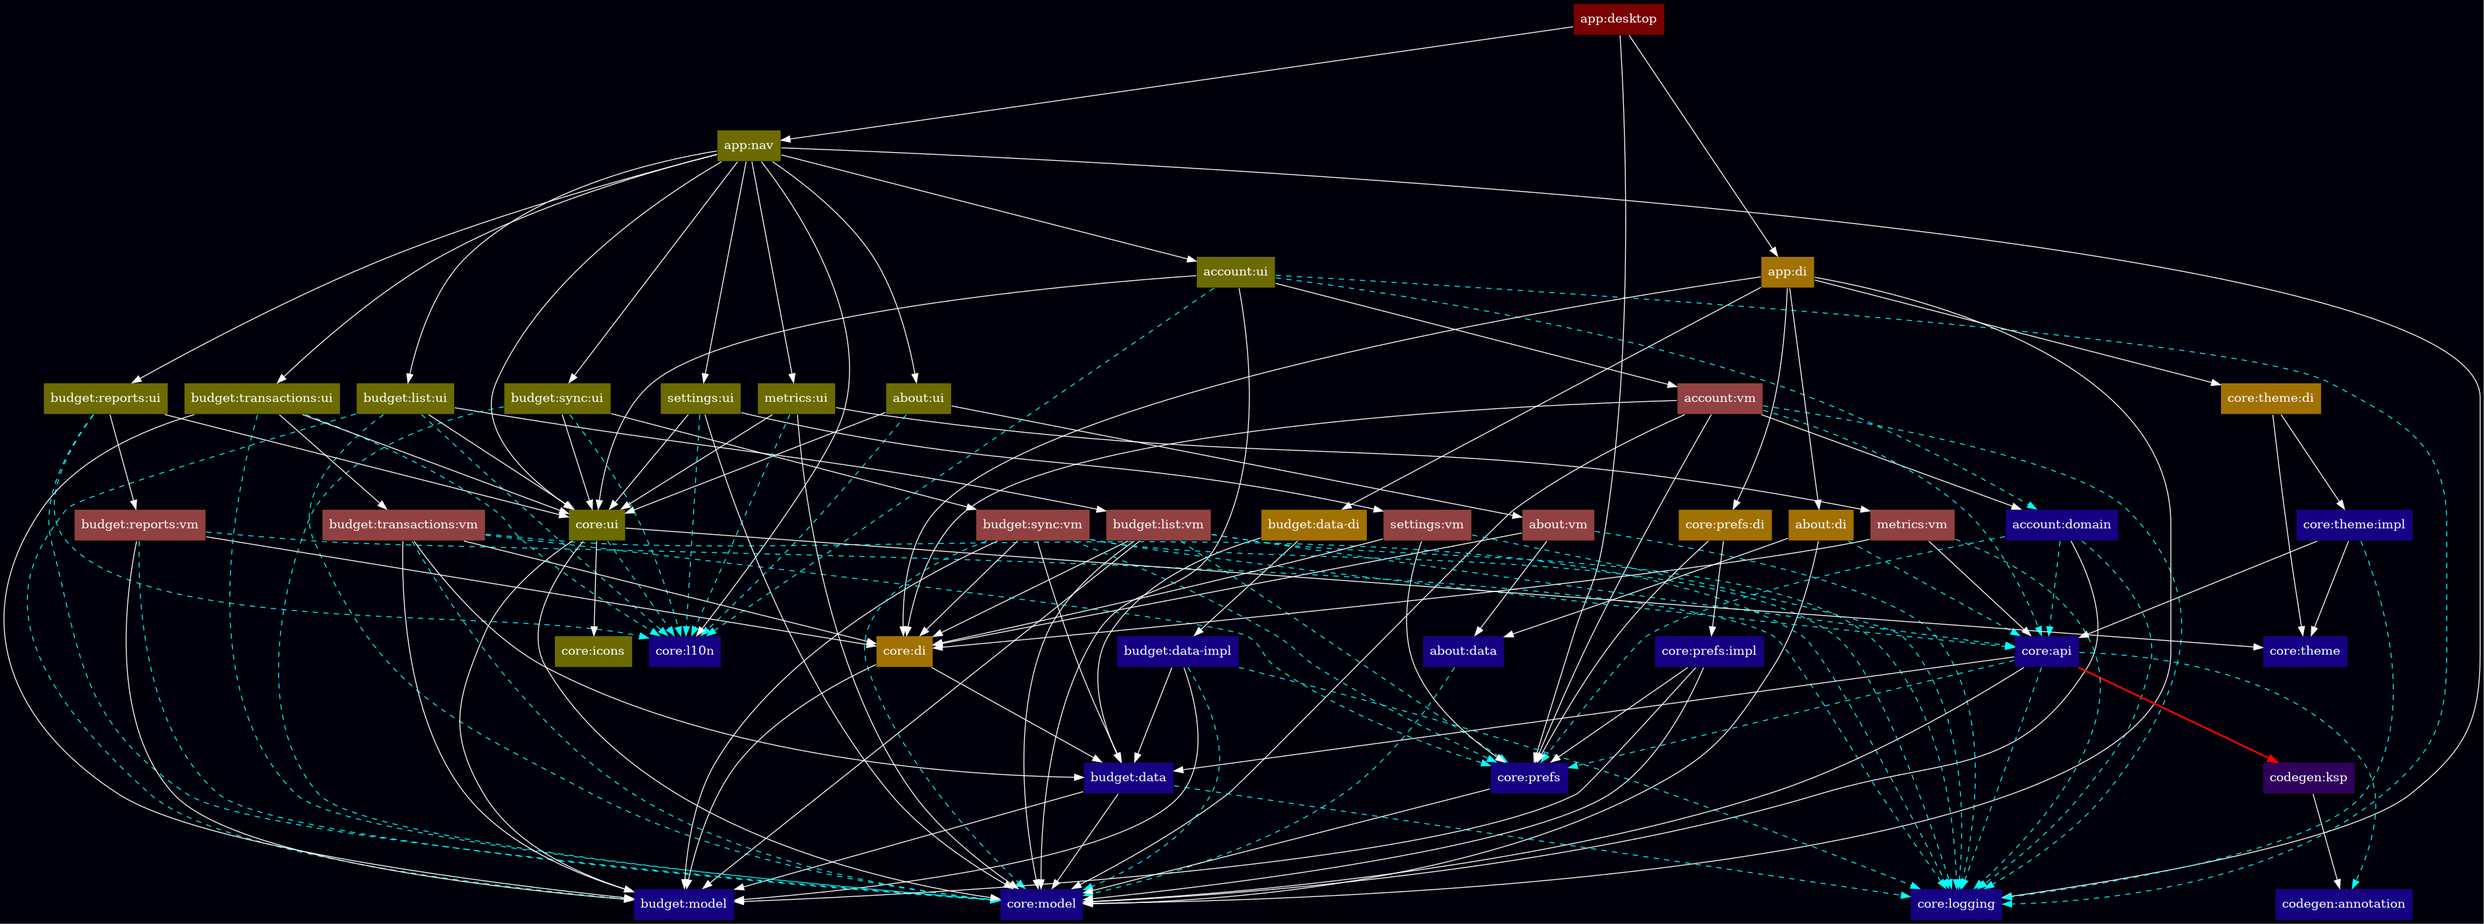
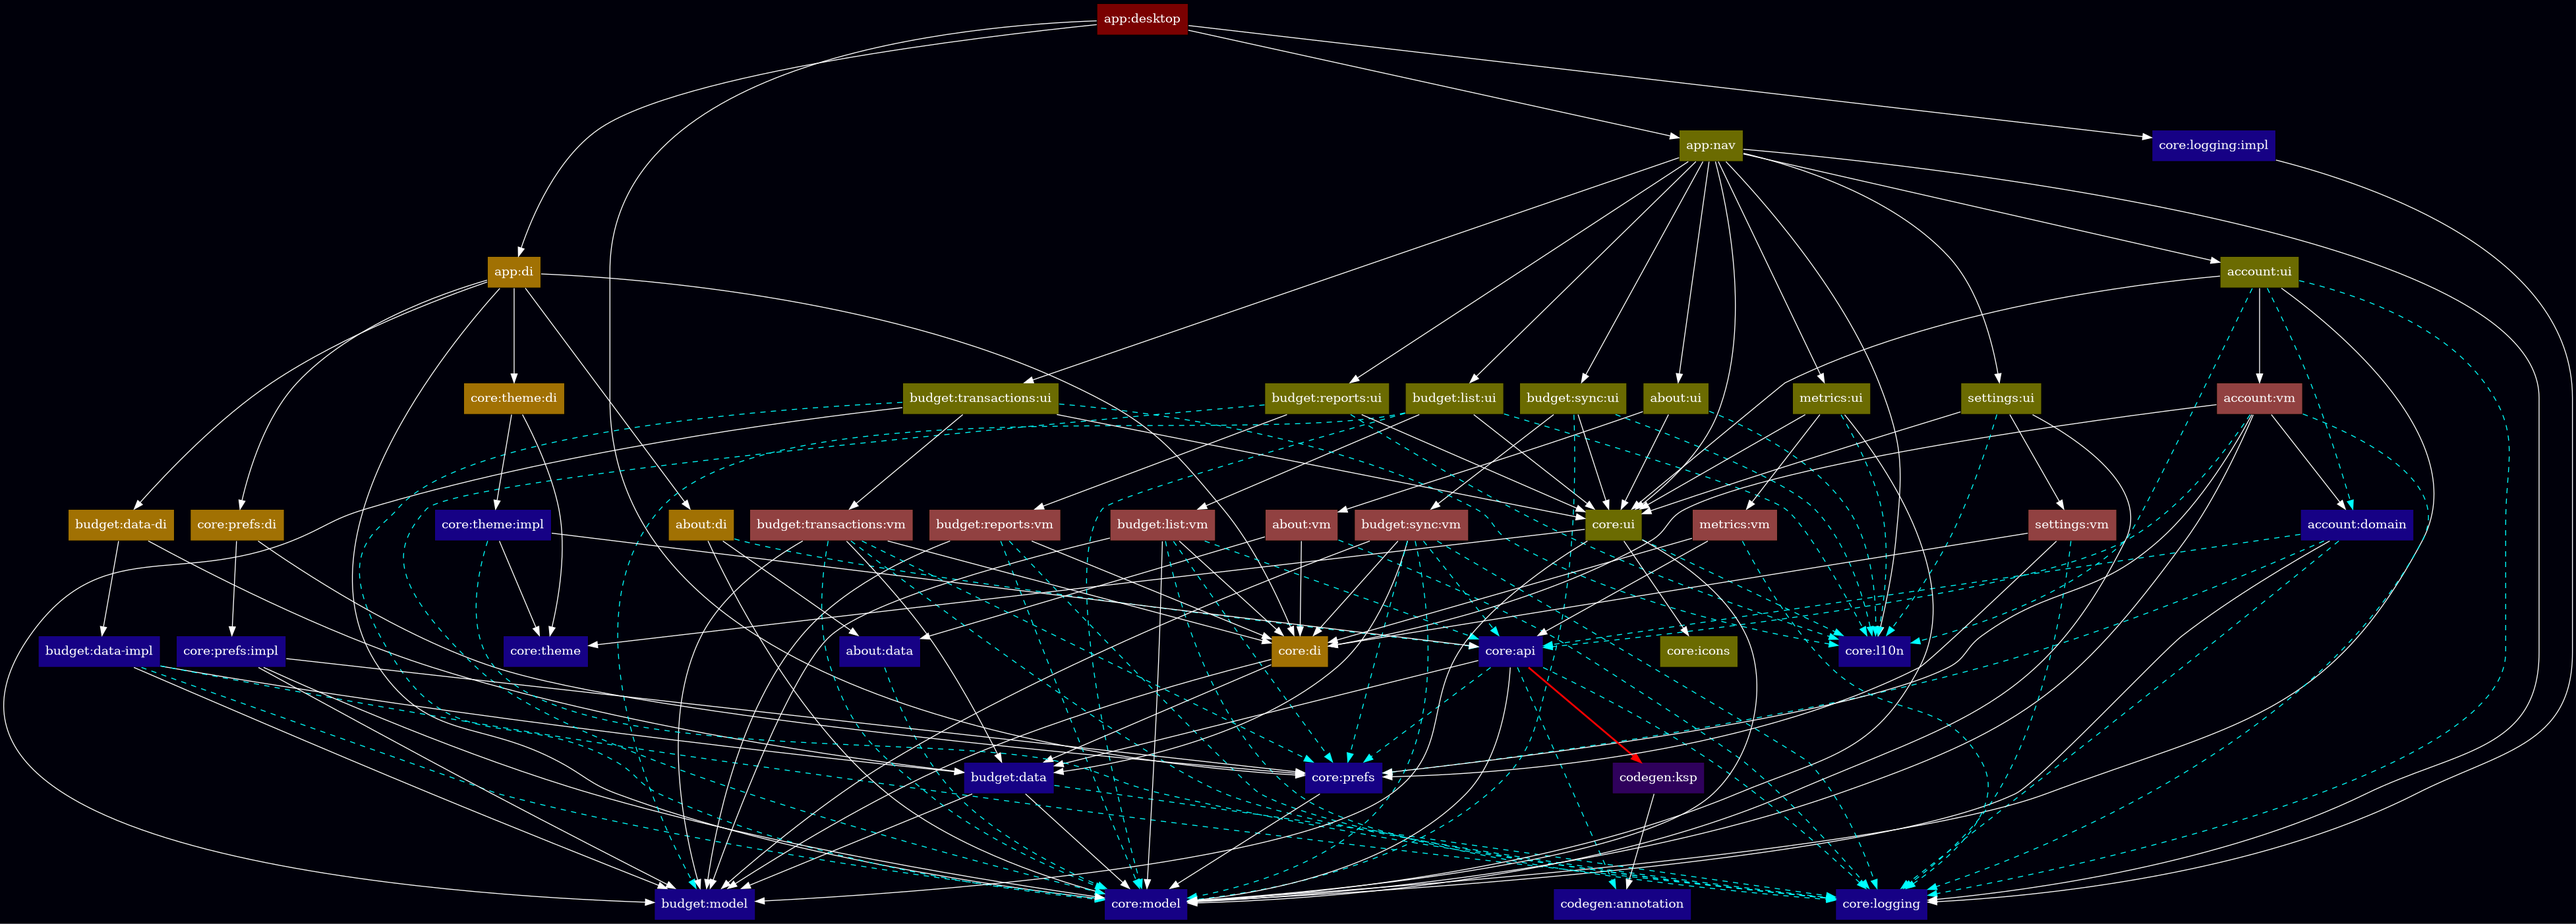
Moved

diff --git a/aktual-core/logging/impl/src/androidMain/kotlin/aktual/core/logging/AktualAndroidLogcatLogger.kt b/aktual-core/logging/impl/src/androidMain/kotlin/aktual/core/logging/AktualAndroidLogcatLogger.kt
@@ -2,7 +2,6 @@ package aktual.core.logging
 
 import logcat.AndroidLogcatLogger
 import logcat.LogPriority
-import logcat.MinPriorityLogger
 
 class AktualAndroidLogcatLogger(override val minPriority: LogPriority) : MinPriorityLogger {
   private val delegate = AndroidLogcatLogger(minPriority)

diff --git a/aktual-core/logging/impl/src/jvmMain/kotlin/aktual/core/logging/TimestampedPrintStreamLogger.kt b/aktual-core/logging/impl/src/jvmMain/kotlin/aktual/core/logging/TimestampedPrintStreamLogger.kt
@@ -8,7 +8,6 @@ import kotlinx.datetime.format
 import kotlinx.datetime.format.DateTimeComponents
 import kotlinx.datetime.format.char
 import logcat.LogPriority
-import logcat.MinPriorityLogger
 
 class TimestampedPrintStreamLogger(
   private val stream: PrintStream,

diff --git a/aktual-core/logging/impl/src/commonMain/kotlin/aktual/core/logging/KermitFileLogger.kt b/aktual-core/logging/impl/src/commonMain/kotlin/aktual/core/logging/KermitFileLogger.kt
@@ -7,7 +7,6 @@ import co.touchlab.kermit.loggerConfigInit
 import co.touchlab.kermit.platformLogWriter
 import kotlin.time.Clock
 import logcat.LogPriority
-import logcat.MinPriorityLogger
 import okio.FileSystem
 
 class KermitFileLogger(

diff --git a/aktual-core/logging/impl/src/commonMain/kotlin/aktual/core/logging/MinPriorityLogger.kt b/aktual-core/logging/impl/src/commonMain/kotlin/aktual/core/logging/MinPriorityLogger.kt
@@ -1,4 +1,7 @@
-package logcat
+package aktual.core.logging
+
+import logcat.LogPriority
+import logcat.LogcatLogger
 
 interface MinPriorityLogger : LogcatLogger {
   val minPriority: LogPriority

diff --git a/aktual-core/logging/impl/README.md b/aktual-core/logging/impl/README.md
@@ -1,0 +1,7 @@
+# aktual-core:logging:impl
+
+<!--region chart-->
+![chart](atlas/chart.png)
+
+![legend](../../../atlas/legend.png)
+<!--endregion-->
